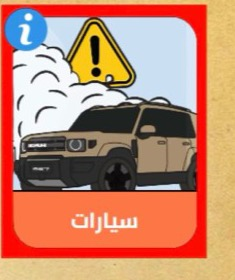
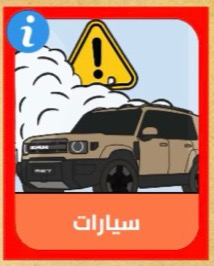
Refine category wheel and cards

diff --git a/app.js b/app.js
@@ -17,7 +17,7 @@ const categories = [
   { id: "riddles", title: "ألغاز", image: "assets/categories/riddles.jpg" },
   { id: "world-logos", title: "شعارات عالمية", image: "assets/categories/world-logos.jpg" },
   { id: "technology", title: "تكنولوجيا", image: "assets/categories/technology.jpg" },
-  { id: "theater-poster", title: "بوستر مسرح كبار", image: "assets/categories/theater-poster.jpg" },
+  { id: "theater-poster", title: "مجمعات الكويت/ بوستر مسرح كبار", image: "assets/categories/theater-poster.jpg" },
   { id: "islamic-letters", title: "حروف إسلامي", image: "assets/categories/islamic-letters.jpg" },
   { id: "sports", title: "رياضة", image: "assets/categories/sports.jpg" },
   { id: "letters", title: "حروف", image: "assets/categories/letters.jpg" },
@@ -267,19 +267,10 @@ function renderCategoryWheel() {
       const start = index * segmentSize;
       const end = start + segmentSize;
       const mid = start + segmentSize / 2;
-      const imagePoint = polarToCartesian(160, 160, 74, mid);
-      const labelPoint = polarToCartesian(160, 160, 112, mid);
-      const clipId = `categoryClip-${item.id}`;
+      const labelPoint = polarToCartesian(160, 160, 104, mid);
       return `
-        <defs>
-          <clipPath id="${clipId}">
-            <circle cx="${imagePoint.x}" cy="${imagePoint.y}" r="18"></circle>
-          </clipPath>
-        </defs>
         <path d="${describeArc(160, 160, 154, start, end)}" fill="${palette[index % palette.length]}" stroke="#0b1326" stroke-width="5"></path>
-        <circle cx="${imagePoint.x}" cy="${imagePoint.y}" r="20" fill="#0b1326" stroke="#dae2fd" stroke-width="2"></circle>
-        <image href="${item.image}" x="${imagePoint.x - 18}" y="${imagePoint.y - 22}" width="36" height="44" preserveAspectRatio="xMidYMid slice" clip-path="url(#${clipId})" transform="rotate(${mid}, ${imagePoint.x}, ${imagePoint.y})"></image>
-        <text x="${labelPoint.x}" y="${labelPoint.y}" fill="#dae2fd" font-family="Calibri, sans-serif" font-size="13" font-weight="700" text-anchor="middle" dominant-baseline="middle" transform="rotate(${mid}, ${labelPoint.x}, ${labelPoint.y})">${item.title.slice(0, 12)}</text>
+        <text x="${labelPoint.x}" y="${labelPoint.y}" fill="#dae2fd" font-family="Calibri, sans-serif" font-size="16" font-weight="700" text-anchor="middle" dominant-baseline="middle" transform="rotate(${mid}, ${labelPoint.x}, ${labelPoint.y})">${item.title.slice(0, 14)}</text>
       `;
     })
     .join("");

diff --git a/index.html b/index.html
@@ -178,7 +178,7 @@
       }
 
       .category-card-image {
-        aspect-ratio: 0.84;
+        aspect-ratio: 0.78;
         object-fit: cover;
         object-position: center;
       }

diff --git a/PROJECT_STATUS.md b/PROJECT_STATUS.md
@@ -49,6 +49,9 @@ The app currently supports:
 - Added a fourth `Categories` tab after `Results`.
 - Replaced the oversized wheel center square with a smaller circular center badge.
 - Increased mobile safe-bottom padding so fixed bottom tabs do not cover page content at max scroll.
+- Removed category card photos from the category wheel segments.
+- Refined category card crops to reduce the brown screenshot margin around selected category photos.
+- Renamed the theater category to `مجمعات الكويت/ بوستر مسرح كبار`.
 
 ## Current Decisions
 
@@ -70,6 +73,7 @@ Recent local checks confirmed:
 - Full default draw ended `5/6`.
 - Maximum team difference stayed `1`.
 - Category wheel selected 6 categories and disabled after the sixth pick.
+- Category wheel is text-only while selected category cards keep larger photos.
 - Category image assets exist locally and were published.
 - Local category image assets loaded successfully in browser checks.
 - Public GitHub Pages returned `HTTP 200` after the Categories deployment.

diff --git a/DESIGN.md b/DESIGN.md
@@ -53,6 +53,6 @@ Within each group, selected names alternate between Team 1 and Team 2. If a grou
 
 Results: final cards for Team 1 and Team 2 with share and start-over actions.
 
-Categories: a fourth tab after Results. It uses a separate wheel with small category card images inside the wheel segments. Selected categories appear above the wheel as six cards arranged in a 3-by-2 grid, with larger card artwork and Arabic category names.
+Categories: a fourth tab after Results. It uses a separate text-only wheel for category selection. Selected categories appear above the wheel as six cards arranged in a 3-by-2 grid, with larger card artwork and Arabic category names.
 
 Fixed mobile tabs must have enough safe-bottom page padding so the last visible content on any screen can scroll above the tab bar instead of being hidden behind it.

diff --git a/TODO.md b/TODO.md
@@ -7,7 +7,7 @@
 - Confirm whether `Team 1` and `Team 2` should be renamed.
 - Recheck the updated mobile Draw and Categories screens on a physical phone after deployment.
 - If needed, crop or mask the logo images into cleaner square/circular icons.
-- If needed, tune individual category card crops from the supplied screenshot.
+- If needed, replace the cropped category cards with original individual photos.
 
 ## Verification Checklist For Future Changes
 
